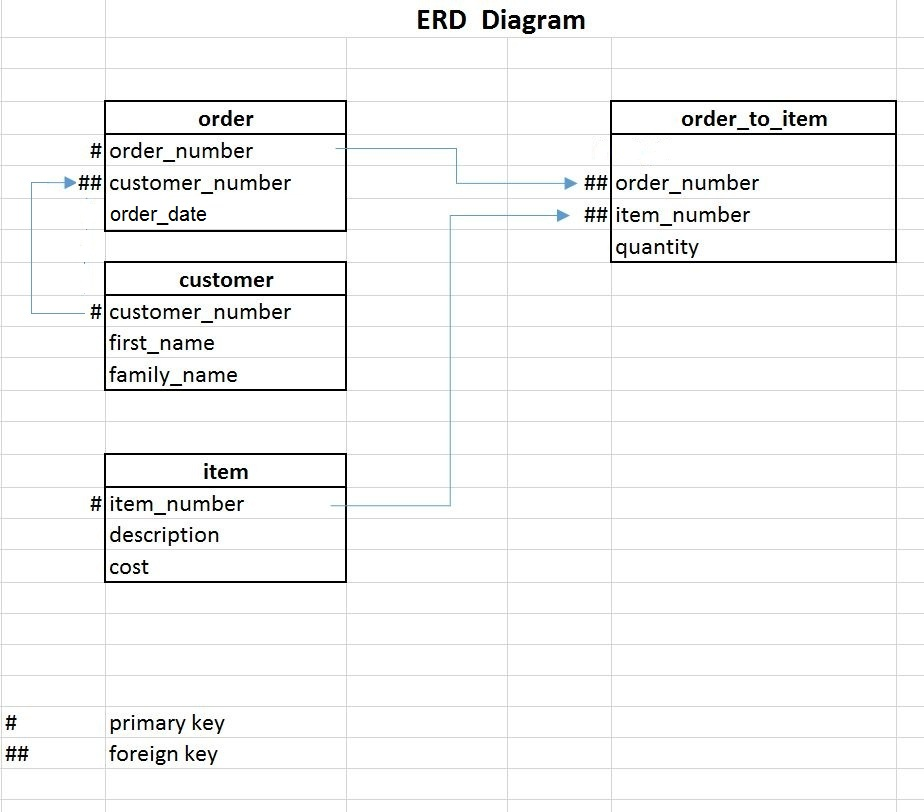
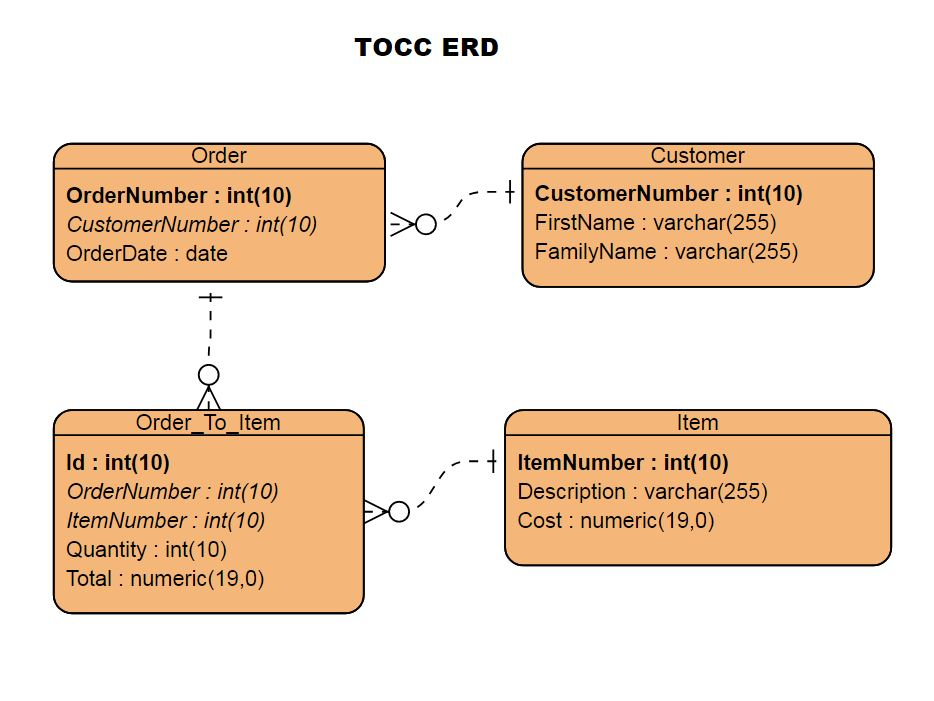
Add missing column

diff --git a/1-csv_db/separateData.php b/1-csv_db/separateData.php
@@ -69,9 +69,14 @@
             $orderNumber = "";
             $orderNumber = str_replace("¦",",",$row[0]);        
             $itemNumber = "";
-            $itemNumber = str_replace("¦",",",$row[5]);         
+            $itemNumber = str_replace("¦",",",$row[5]);
+            $quantity = "";
+            $quantity = str_replace("¦",",",$row[8]);
+            $total = "";
+            $total = str_replace("¦",",",$row[9]);
+            
             $current = "";
-            $current .= $orderNumber.",".$itemNumber.","."\n";             
+            $current .= $orderNumber.",".$itemNumber.",".$quantity.",".$total.","."\n";             
             fwrite($sfOrderToItem,$current);
         }         
         fclose($sfOrderToItem);

diff --git a/4-5-webpage/index.php b/4-5-webpage/index.php
@@ -35,3 +35,4 @@
 	</div>    
 </body>
 </html>
+
